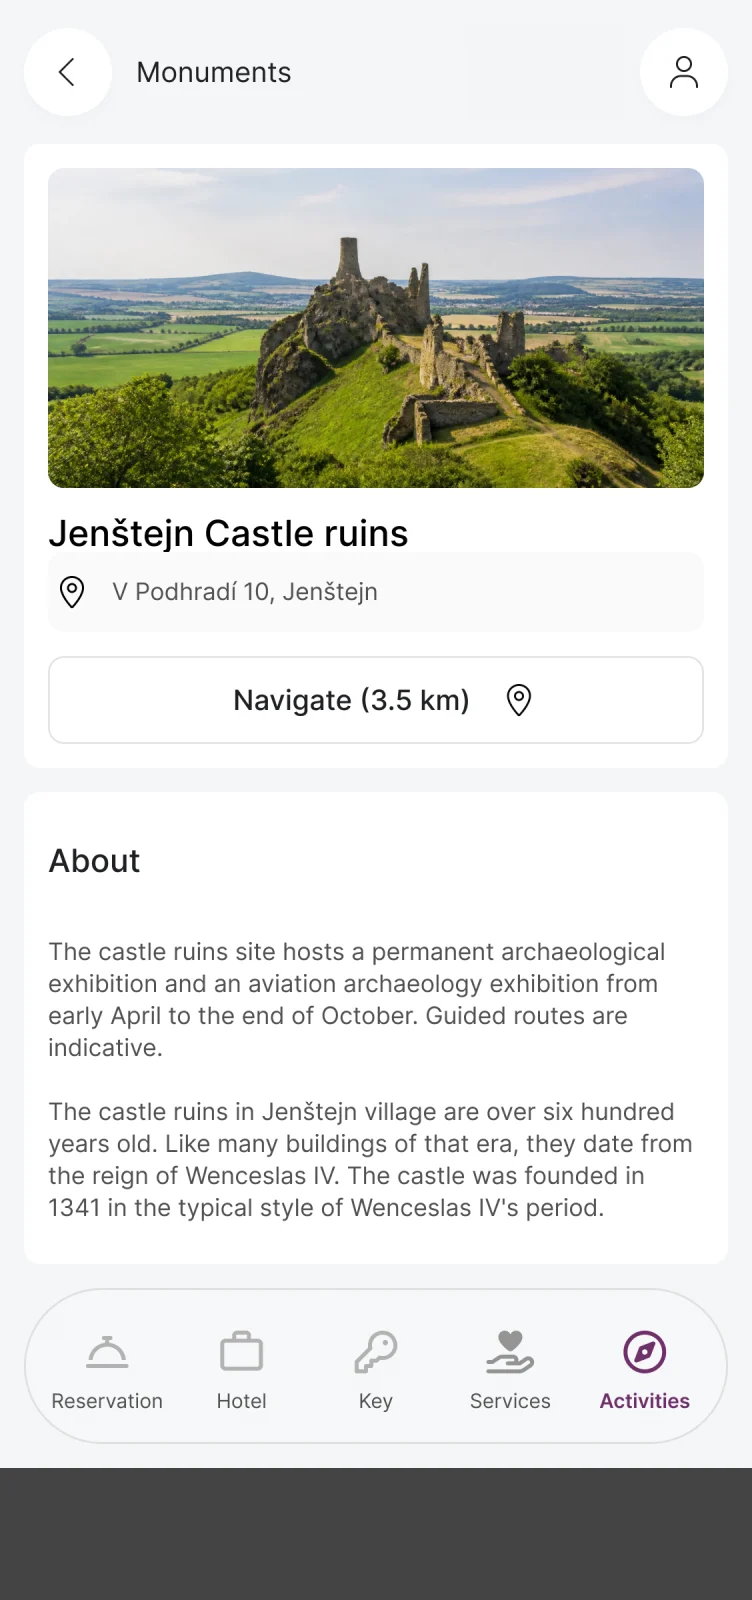
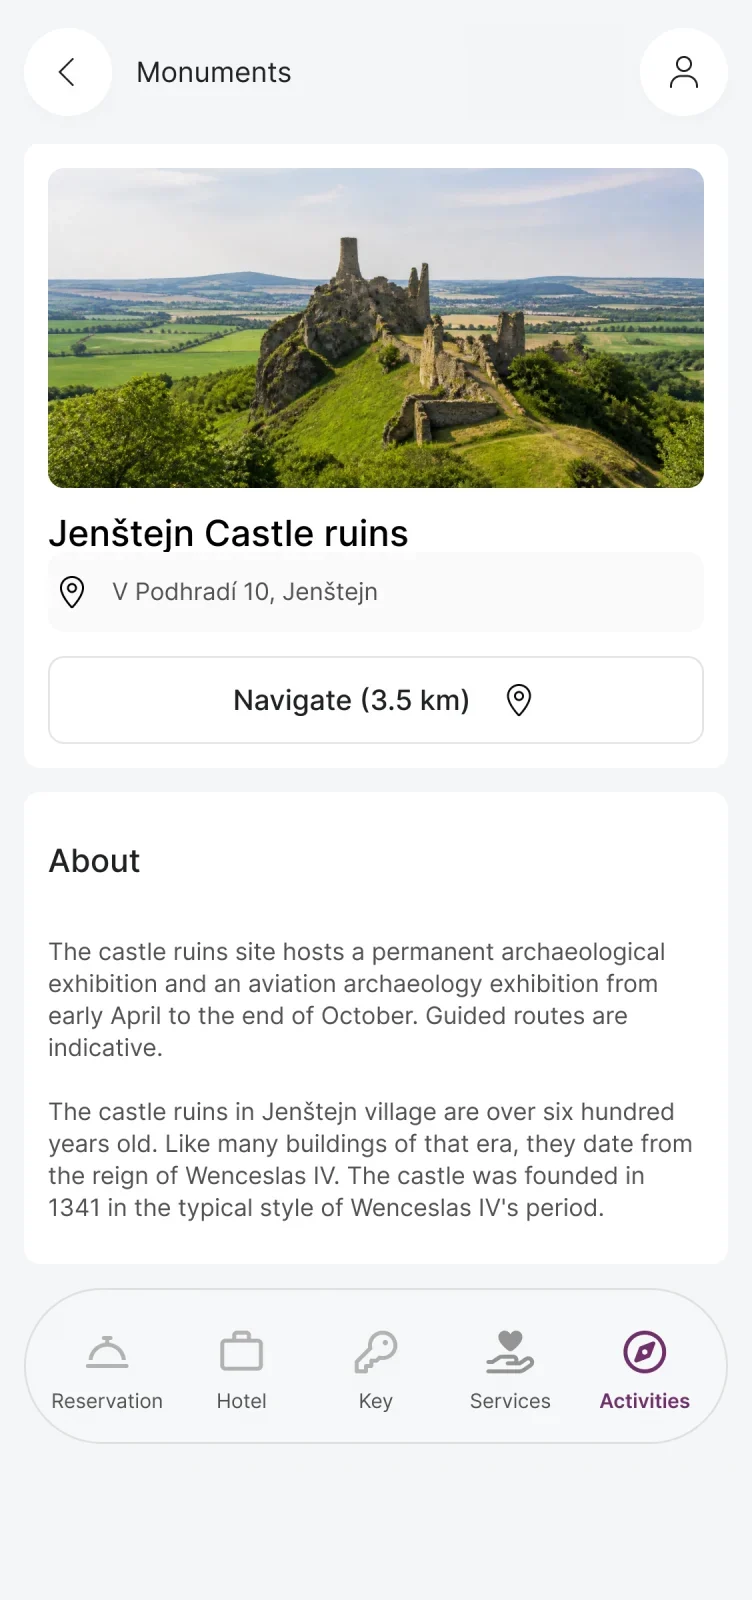
Hero: tečkovaná koule a plovoucí barevné ikonky; tour: měkčí přechod
- za notebookem pomalu rotující tečkovaná koule (canvas)
- kolem nadpisu plují 3D ikonky v bílých kruzích (Fluent Emoji, MIT)
- sekce Celý pobyt: eased scrim + progresivní rozostření místo lineárního gradientu
- opravené screeny 03 (spodní pruh) a 04 (tlačítko u rámu)

Changed region(s): [[0.0, 0.9062, 1.0, 1.0]]

diff --git a/index.html b/index.html
@@ -277,6 +277,36 @@
       .hlap__lid{box-shadow:inset 0 0 0 1.5px #3a3a3c,0 50px 90px -40px rgba(32,33,36,.45)}
     }
     @media(max-width:800px){.hero__kicker{color:var(--blue)}.hero__bottom{border-top-color:var(--line)}}
+
+    /* Hero: tečková koule za notebookem (port Orb z animation-scroll) */
+    .hero__orb{position:absolute;z-index:-1;left:50%;top:62%;width:190%;aspect-ratio:1;transform:translate(-50%,-50%);opacity:.6;pointer-events:none}
+    .hero__text{position:relative;z-index:1}
+    @media(max-width:800px){.hero__orb{width:220%;top:30%}}
+  
+    /* Hero: plovoucí barevné ikony (Fluent Emoji 3D, MIT) */
+    .hero__icons{position:absolute;inset:0;z-index:3;pointer-events:none}
+    .hico{position:absolute;left:var(--x);top:var(--y);width:var(--s);height:var(--s);margin-left:calc(var(--s)/-2);display:grid;place-items:center;border-radius:50%;background:#fff;box-shadow:0 18px 40px -18px rgba(60,30,58,.35),0 2px 6px rgba(32,33,36,.05);opacity:0;scale:.6;transition:opacity .8s,scale 1s cubic-bezier(.34,1.56,.64,1);animation:hicoFloat var(--t) ease-in-out var(--dl) infinite alternate}
+    .hico img{width:60%;height:60%;object-fit:contain}
+    .hero.icons-in .hico{opacity:1;scale:1}
+    .hero.icons-in .hico:nth-child(2){transition-delay:.08s}.hero.icons-in .hico:nth-child(3){transition-delay:.16s}.hero.icons-in .hico:nth-child(4){transition-delay:.24s}.hero.icons-in .hico:nth-child(5){transition-delay:.12s}.hero.icons-in .hico:nth-child(6){transition-delay:.2s}.hero.icons-in .hico:nth-child(7){transition-delay:.28s}.hero.icons-in .hico:nth-child(8){transition-delay:.36s}
+    @keyframes hicoFloat{0%{transform:translate(0,0) rotate(-4deg)}50%{transform:translate(10px,-16px) rotate(3deg)}100%{transform:translate(-8px,8px) rotate(-1deg)}}
+    @media(max-width:800px){
+      .hico{--s:46px!important}
+      .hico--1,.hico--2,.hico--3,.hico--4,.hico--6,.hico--7{display:none}
+      .hico--0{--x:12%!important;--y:30px!important}
+      .hico--2{--x:6%!important;--y:470px!important}
+      .hico--5{--x:88%!important;--y:30px!important}
+      .hico--7{--x:94%!important;--y:520px!important}
+    }
+    @media(prefers-reduced-motion:reduce){.hico{animation:none}}
+  
+/* tour: eased scrim + progresivní rozostření místo ostrého lineárního přechodu */
+.tour__fade{background:linear-gradient(90deg,rgba(245,243,237,0.9) 0%,rgba(245,243,237,0.86) 12%,rgba(245,243,237,0.77) 22%,rgba(245,243,237,0.63) 31%,rgba(245,243,237,0.46) 39%,rgba(245,243,237,0.3) 46%,rgba(245,243,237,0.17) 52%,rgba(245,243,237,0.08) 57%,rgba(245,243,237,0.025) 62%,rgba(245,243,237,0) 66%)}
+.tour__fade::before{content:"";position:absolute;inset:0;-webkit-backdrop-filter:blur(14px) saturate(1.05);backdrop-filter:blur(14px) saturate(1.05);-webkit-mask-image:linear-gradient(90deg,#000 0%,#000 22%,transparent 52%);mask-image:linear-gradient(90deg,#000 0%,#000 22%,transparent 52%)}
+@media(max-width:800px){
+.tour__fade{background:linear-gradient(0deg,rgba(245,243,237,0.94) 0%,rgba(245,243,237,0.9) 10%,rgba(245,243,237,0.8) 18%,rgba(245,243,237,0.64) 26%,rgba(245,243,237,0.46) 32%,rgba(245,243,237,0.28) 38%,rgba(245,243,237,0.14) 43%,rgba(245,243,237,0.05) 47%,rgba(245,243,237,0) 51%)}
+.tour__fade::before{-webkit-mask-image:linear-gradient(0deg,#000 0%,#000 20%,transparent 46%);mask-image:linear-gradient(0deg,#000 0%,#000 20%,transparent 46%)}
+}
 </style>
   </head>
 <body class="loading">
@@ -321,7 +351,7 @@
 </div>
 <div class="ad__view ad__view--key"><div class="adk"><small class="adk__k">Mobilní klíč</small><b class="adk__room">Pokoj 204</b><small class="adk__meta">3. patro · platí do Čt 9. 10., 11:00</small><button class="adk__ring" type="button" tabindex="-1" aria-label="Odemknout pokoj 204"><span class="adk__wave"></span><span class="adk__wave"></span><svg viewBox="0 0 24 24" width="54" height="54" fill="none" stroke="currentColor" stroke-width="1.7" stroke-linecap="round" stroke-linejoin="round" aria-hidden="true"><circle cx="8" cy="15" r="4"/><path d="m11 12 8.5-8.5M16.5 6.5l2.5 2.5M14.5 8.5l2 2"/></svg></button><span class="adk__hint"><span>Přiložte telefon ke dveřím</span><em>Otevřeno ✓</em></span></div></div></div>
 <nav class="ad__tabs"><button type="button" data-tab="dash" class="on" tabindex="-1"><svg viewBox="0 0 24 24" width="22" height="22" fill="none" stroke="currentColor" stroke-width="1.7" stroke-linecap="round" stroke-linejoin="round" aria-hidden="true"><path d="M4 17.5h16M5.5 17.5a6.5 6.5 0 0 1 13 0M12 8.5V6.5M10.5 6.5h3"/></svg>Rezervace</button><button type="button" data-go="#okoli" tabindex="-1"><svg viewBox="0 0 24 24" width="22" height="22" fill="none" stroke="currentColor" stroke-width="1.7" stroke-linecap="round" stroke-linejoin="round" aria-hidden="true"><rect x="4" y="8" width="16" height="12" rx="2"/><path d="M9 8V5.5h6V8"/></svg>Hotel</button><button type="button" data-tab="key" tabindex="-1"><svg viewBox="0 0 24 24" width="22" height="22" fill="none" stroke="currentColor" stroke-width="1.7" stroke-linecap="round" stroke-linejoin="round" aria-hidden="true"><circle cx="8" cy="15" r="4"/><path d="m11 12 8.5-8.5M16.5 6.5l2.5 2.5M14.5 8.5l2 2"/></svg>Klíč</button><button type="button" data-go="#sluzby" tabindex="-1"><svg viewBox="0 0 24 24" width="22" height="22" fill="none" stroke="currentColor" stroke-width="1.7" stroke-linecap="round" stroke-linejoin="round" aria-hidden="true"><path d="M12 11.5s-3.5-2.2-3.5-4.5a2 2 0 0 1 3.5-1.3A2 2 0 0 1 15.5 7c0 2.3-3.5 4.5-3.5 4.5z"/><path d="M3.5 15.5h3l3.5 2.5h5l4-3.5-1.5-1.5-3 1.5h-3"/></svg>Služby</button><button type="button" data-go="#okoli" tabindex="-1"><svg viewBox="0 0 24 24" width="22" height="22" fill="none" stroke="currentColor" stroke-width="1.7" stroke-linecap="round" stroke-linejoin="round" aria-hidden="true"><circle cx="12" cy="12" r="8.5"/><path d="m15 9-1.8 4.2L9 15l1.8-4.2z"/></svg>Aktivity</button></nav></div></div></div><div class="scr__glare"></div></div></div></div><div class="film__shade"></div><div class="film__kicker"><span class="pulse"></span> Večer, po dlouhé cestě</div><div class="film__beats"><p class="film__beat" data-in=".03" data-out=".2">Venku prší.<br>Za vámi dlouhá cesta.</p><p class="film__beat" data-in=".24" data-out=".44">Recepce už má<br><span>zavřeno.</span></p><p class="film__beat" data-in=".5" data-out=".7">Nevadí. Check-in<br>máte <span>hotový.</span></p><p class="film__beat" data-in=".76" data-out=".97">A klíč od pokoje?<br><span>Máte ho v ruce.</span></p></div><div class="film__cue">Scrollujte<i></i></div><div class="film__end"><img src="assets/alfred-logo-transparent.png" alt=""></div></div></section>
-    <header class="hero"><div class="hero__glow"></div><div class="hero__content wrap"><div class="hero__text"><div class="hero__kicker reveal"><span class="pulse"></span> Váš pobyt právě začíná</div><h1 class="display reveal">Míň čekání.<br><span class="accent">Víc zážitků.</span></h1><div class="hero__bottom reveal"><p>Check‑in, klíč, služby i platba. Všechno, co v hotelu potřebujete, máte rovnou v mobilu.</p><a class="scroll-cue" href="#moznosti"><i>↓</i> Objevte Alfreda</a></div></div><div class="hero__device"><div class="hlap" aria-hidden="true"><div class="hlap__lid"><div class="hlap__screen"><div class="hlap__bar"><i></i><i></i><i></i><span>alfred.previo.app</span></div><div class="hlap__view"><img class="hlap__shot" src="assets/app/desk-hotel.webp" alt=""></div></div></div><div class="hlap__base"><i></i></div></div><div class="hdev"><div class="hdev__screen"><div class="hdev__island"></div><div class="ad-fit"><div class="ad" data-view="dash"><div class="ad__status"><span>21:40</span><span class="ad__sig"><i></i><i></i><i></i><i></i></span></div>
+    <header class="hero"><div class="hero__glow"></div><div class="hero__icons" aria-hidden="true"><span class="hico hico--0" style="--x:14%;--y:150px;--s:84px;--t:11s;--dl:0s"><img src="assets/icons/luggage.webp" alt="" width="80" height="80" loading="eager"></span><span class="hico hico--1" style="--x:29%;--y:96px;--s:62px;--t:13s;--dl:-3s"><img src="assets/icons/croissant.webp" alt="" width="80" height="80" loading="eager"></span><span class="hico hico--2" style="--x:21%;--y:380px;--s:66px;--t:10s;--dl:-6s"><img src="assets/icons/key.webp" alt="" width="80" height="80" loading="eager"></span><span class="hico hico--3" style="--x:7%;--y:560px;--s:72px;--t:12s;--dl:-2s"><img src="assets/icons/bellhop_bell.webp" alt="" width="80" height="80" loading="eager"></span><span class="hico hico--4" style="--x:69%;--y:100px;--s:60px;--t:12s;--dl:-5s"><img src="assets/icons/bed.webp" alt="" width="80" height="80" loading="eager"></span><span class="hico hico--5" style="--x:84%;--y:160px;--s:78px;--t:10s;--dl:-1s"><img src="assets/icons/credit_card.webp" alt="" width="80" height="80" loading="eager"></span><span class="hico hico--6" style="--x:77%;--y:400px;--s:66px;--t:14s;--dl:-7s"><img src="assets/icons/hot_springs.webp" alt="" width="80" height="80" loading="eager"></span><span class="hico hico--7" style="--x:92%;--y:560px;--s:58px;--t:11s;--dl:-4s"><img src="assets/icons/star.webp" alt="" width="80" height="80" loading="eager"></span></div><div class="hero__content wrap"><div class="hero__text"><div class="hero__kicker reveal"><span class="pulse"></span> Váš pobyt právě začíná</div><h1 class="display reveal">Míň čekání.<br><span class="accent">Víc zážitků.</span></h1><div class="hero__bottom reveal"><p>Check‑in, klíč, služby i platba. Všechno, co v hotelu potřebujete, máte rovnou v mobilu.</p><a class="scroll-cue" href="#moznosti"><i>↓</i> Objevte Alfreda</a></div></div><div class="hero__device"><canvas class="hero__orb" aria-hidden="true"></canvas><div class="hlap" aria-hidden="true"><div class="hlap__lid"><div class="hlap__screen"><div class="hlap__bar"><i></i><i></i><i></i><span>alfred.previo.app</span></div><div class="hlap__view"><img class="hlap__shot" src="assets/app/desk-hotel.webp" alt=""></div></div></div><div class="hlap__base"><i></i></div></div><div class="hdev"><div class="hdev__screen"><div class="hdev__island"></div><div class="ad-fit"><div class="ad" data-view="dash"><div class="ad__status"><span>21:40</span><span class="ad__sig"><i></i><i></i><i></i><i></i></span></div>
 <div class="ad__scroll"><div class="ad__view ad__view--dash">
 <div class="ad__top"><span class="ad__hotel">HOTEL<b>VLTAVA</b></span><span class="ad__me"><svg viewBox="0 0 24 24" width="22" height="22" fill="none" stroke="currentColor" stroke-width="1.7" stroke-linecap="round" stroke-linejoin="round" aria-hidden="true"><circle cx="12" cy="8.5" r="3.5"/><path d="M5.5 19.5c1.2-3.3 3.6-5 6.5-5s5.3 1.7 6.5 5"/></svg></span></div>
 <div class="ad__snack"><svg viewBox="0 0 24 24" width="20" height="20" fill="none" stroke="currentColor" stroke-width="1.7" stroke-linecap="round" stroke-linejoin="round" aria-hidden="true"><rect x="3.5" y="5" width="17" height="15" rx="2.5"/><path d="M3.5 10h17M8 3v4M16 3v4"/></svg><span class="ad__snacktxt">Termín pobytu potvrzen</span></div>
@@ -454,6 +484,34 @@
       D.forEach((d,j)=>d.addEventListener('click',()=>go(j)));const A=[...g.querySelectorAll('.tour__arrow')];A.forEach(a=>a.addEventListener('click',()=>{const n=i+ +a.dataset.d;if(n>=0&&n<C.length)go(n)}));
       pl.addEventListener('click',()=>{playing=!playing;pl.setAttribute('aria-label',playing?'Pozastavit':'Přehrát');mark()});
       new IntersectionObserver(en=>{vis=en[0].isIntersecting;mark()},{threshold:.45}).observe(tr);mark()})();
-  </script>
+  
+  /* Tečková koule (Fibonacciho sféra) za zařízením v hero */
+  (()=>{
+    const c=document.querySelector('.hero__orb'); if(!c) return;
+    const ctx=c.getContext('2d'), N=2400, still=matchMedia('(prefers-reduced-motion: reduce)').matches;
+    const pts=Array.from({length:N},(_,i)=>{const y=1-i/(N-1)*2,r=Math.sqrt(1-y*y),th=i*2.399963;return{x:Math.cos(th)*r,y,z:Math.sin(th)*r}});
+    let W=0,dpr=1,t=0,last=performance.now(),raf=0,vis=true;
+    const size=()=>{dpr=Math.min(2,devicePixelRatio||1);W=Math.round(c.clientWidth*dpr);c.width=c.height=W};
+    const draw=now=>{
+      const dt=Math.min(.05,(now-last)/1000); last=now; t+=dt;
+      const R=W*.33, rot=t*.12, cr=Math.cos(rot), sr=Math.sin(rot), ct=Math.cos(.35), st=Math.sin(.35), k0=W/1400;
+      ctx.clearRect(0,0,W,W);
+      for(const p of pts){
+        const n=Math.sin(p.x*6+t*1.2)*Math.cos(p.y*5-t*.9)*Math.sin(p.z*4+t*.7), k=1+n*.035;
+        const x=p.x*cr-p.z*sr, z0=p.x*sr+p.z*cr, y=p.y*ct-z0*st, z=p.y*st+z0*ct, d=(z+1)/2;
+        ctx.fillStyle=`hsla(${302-d*6},${30+d*18}%,${70-d*36}%,${.12+d*.55})`;
+        ctx.beginPath(); ctx.arc(W/2+x*R*k,W/2+y*R*k,(.7+d*1.9)*dpr*Math.max(1,k0),0,6.2832); ctx.fill();
+      }
+      if(!still&&vis) raf=requestAnimationFrame(draw);
+    };
+    const go=()=>{cancelAnimationFrame(raf);last=performance.now();raf=requestAnimationFrame(draw)};
+    size(); go();
+    addEventListener('resize',()=>{size();go()});
+    new IntersectionObserver(([e])=>{vis=e.isIntersecting;if(vis)go()}).observe(c);
+  })();
+
+  /* Plovoucí ikony v hero: náběh při prvním zobrazení */
+  (()=>{const h=document.querySelector('.hero');if(!h)return;new IntersectionObserver((es,o)=>{if(es[0].isIntersecting){h.classList.add('icons-in');o.disconnect()}},{threshold:.25}).observe(h)})();
+</script>
 </body>
 </html>

diff --git a/README.md b/README.md
@@ -43,6 +43,7 @@ Potom otevřete [http://127.0.0.1:4173](http://127.0.0.1:4173).
 │   ├── alfred-mobile-key.webp        # Mobilní hotelový klíč
 │   ├── alfred-services.webp          # Služby a objevování okolí
 │   ├── app/                          # Obrazovky z návrhu aplikace (mobil + desktop `desk-*`)
+│   ├── icons/                        # Barevné 3D ikonky v hero (Fluent Emoji, Microsoft, licence MIT)
 │   ├── alfred.svg                    # Postavička Alfreda (loader)
 │   ├── alfred-logo.svg               # Původní dodané logo
 │   └── alfred-logo-transparent.png   # Transparentní maska loga pro dynamické barvy
@@ -54,7 +55,7 @@ Potom otevřete [http://127.0.0.1:4173](http://127.0.0.1:4173).
 - responzivní layout pro desktop a mobil,
 - loader — postavička Alfreda se skládá z částic podle postupu načítání, pak vstupní choreografie,
 - úvodní filmový příběh „Příjezd“ (`.film`) — snímky filmu se přetáčejí scrollem na canvasu, do displeje telefonu se přes CSS `matrix3d` (homografie z naměřených rohů displeje) promítá živé HTML UI Alfreda a na konci kamera „vplave“ do obrazovky a předá stránku hero sekci; při `prefers-reduced-motion` se sekce skryje,
-- hero s interaktivní replikou aplikace Alfred v telefonu — úkoly před příjezdem se postupně odškrtávají (nebo je odklikne návštěvník), po dokončení se odemkne pokoj a PIN, záložka Klíč otevře mobilní klíč; telefon se natáčí za kurzorem; za ním se otevře víko notebooku s desktopovou verzí Alfreda z návrhu,
+- hero s interaktivní replikou aplikace Alfred v telefonu — úkoly před příjezdem se postupně odškrtávají (nebo je odklikne návštěvník), po dokončení se odemkne pokoj a PIN, záložka Klíč otevře mobilní klíč; telefon se natáčí za kurzorem; za ním se otevře víko notebooku s desktopovou verzí Alfreda z návrhu; za notebookem se pomalu otáčí tečkovaná koule (canvas) a kolem nadpisu volně plují barevné ikonky v bílých kruzích,
 - sekce `.still` — fotografie recepce se při scrollu rozevře z ořezu (clip-path) na celou obrazovku,
 - kinetické nadpisy — slova hlavních nadpisů vyjíždějí postupně zespodu,
 - sekce „Přijeďte. Ubytujte se. Odemkněte. Užijte si.“ (`.mf`) — světlý „jízdní řád“ jednoho příjezdu: připnutá na scroll, slova se postupně dopisují, u každého řádku naskočí čas a poznámka, co Alfred zařídil, a na konci závěrečná věta,
